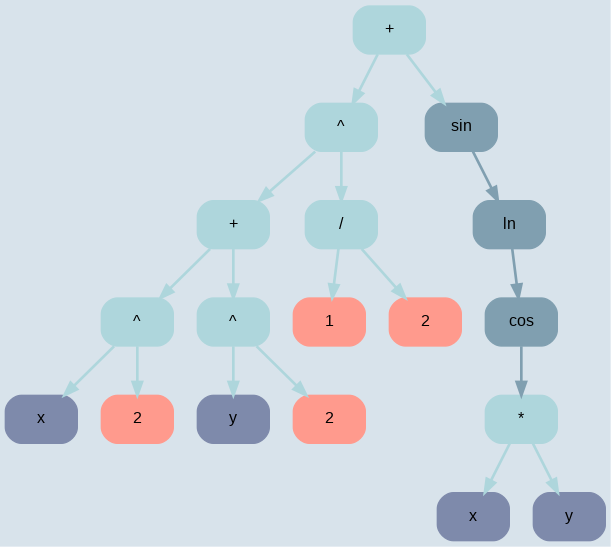
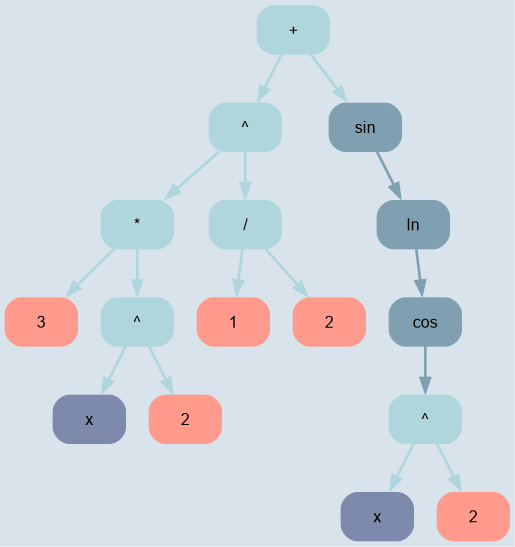
test diff(), don't work correct POW d

diff --git a/src/diff_tree.cpp b/src/diff_tree.cpp
@@ -20,13 +20,14 @@ bool DivOptimisation(Node **node);
 bool PowOptimisation(Node **node);
 bool CompareDoubles(double value1, double value2);
 
-void Optimize(Node **node);
 void ReplaceWithOne(Node **node);
 
 bool IsNum(const Node *node);
 
 const double EPSILON = 1e-10;
 const size_t MAX_VARS = 10;
+
+//#define _LOG(b)    NewNode(FUNC, NodeValue {.func = (LN)}, nullptr, b)
 
 Variable* GetVarsTable() //TODO struct
 {
@@ -68,8 +69,14 @@ size_t AddVartable(Variable *vars_table, const char* name, size_t len_name)
 
 bool CheckVars(Node* node)
 {
-    return node && node->type == VAR;
+    if (!node) return false;
+    if (node->type == VAR) return true;
+    if (node->type == NUM) return false;
+    if (node->type == OP || node->type == FUNC)
+        return CheckVars(node->left) || CheckVars(node->right);
+    return false;
 }
+
 
 bool CompareDoubles(double value1, double value2)
 {
@@ -80,6 +87,7 @@ double Eval(Node *node)
 {
     assert(node);
 
+    LOG(LOGL_DEBUG, "Eval node");
     if (node->type == NUM) return node->value.num;
     if (node->type == VAR) return Global_x;
     if (node->type == OP)
@@ -94,7 +102,12 @@ double Eval(Node *node)
         #define DEF_OPER(oper, eval_rule, ...) case oper: return eval_rule;
         switch (node->value.op)
         {
-            #include "diff_rules_DSL.h"
+            // #include "diff_rules_DSL.h"
+            case ADD: return _ELEFT + _ERIGHT;
+            case SUB: return _ELEFT - _ERIGHT;
+            case MUL: return _ELEFT * _ERIGHT;
+            case DIV: return _ELEFT / _ERIGHT;
+            case POW: return pow(_ELEFT, _ERIGHT);
 
             default:
                 LOG(LOGL_ERROR,"Error: Unknown operation");
@@ -107,7 +120,15 @@ double Eval(Node *node)
         #define DEF_FUNC(func, eval_rule, ...) case func: return eval_rule;
         switch (node->value.func)
         {
-            #include "diff_rules_DSL.h"
+            // #include "diff_rules_DSL.h"
+
+            case SIN:
+                return sin(_ERIGHT);
+            case COS:
+                return cos(_ERIGHT);
+            case LN:
+                return log(_ERIGHT);
+
 
             default:
                 LOG(LOGL_ERROR,"Error: Unknown operation");
@@ -136,17 +157,53 @@ Node* Diff(Node *node)
 {
     assert(node);
 
+    LOG(LOGL_DEBUG, "Diff node");
     if (node->type == NUM) return _NUM(0);
+    LOG(LOGL_ERROR,"NUM: %d", node->value.num);
+
     if (node->type == VAR) return _NUM(1);
+    LOG(LOGL_ERROR,"VAR: %d", node->value.var);
+
     if (node->type == OP)
     {
-        #define DEF_OPER(oper, eval_rule, diff_rule, ...) case oper: diff_rule
+        #define DEF_OPER(oper, eval_rule, diff_rule, ...) case oper: diff_rule;
+
+        LOG(LOGL_ERROR,"OP: %d", node->value.op);
         switch (node->value.op)
         {
-            #include "diff_rules_DSL.h"
+            // #include "diff_rules_DSL.h"
+
+            case ADD:
+                return _ADD(dL, dR);
+            case SUB:
+                return _SUB(dL, dR);
+            case MUL:
+                return _ADD(_MUL(dL, CR), _MUL(CL, dR));
+            case DIV:
+                return _DIV(_SUB(_MUL(dL, CR), _MUL(CL, dR)), _MUL(CR, CR));
+            case POW:
+            {
+                bool var_in_base   = CheckVars(node->left);
+                bool var_in_degree = CheckVars(node->right);
+
+                if (var_in_base && var_in_degree)
+                {
+                    return _MUL(_ADD( _MUL(dR, _LOG(CL)),_DIV(_MUL(dL, CR), CL)), _POW(CL, CR));
+                }
+                if (var_in_base)
+                {
+                    return _MUL(dL,  _MUL(CR, _POW(CL, _SUB(CR, _NUM(1)))));
+                }
+                if (var_in_degree)
+                {
+                    return _MUL( _POW(CL, CR),  _MUL(dR, _LOG(CL)));
+                }
+
+                return nullptr;
+            }
 
             default:
-                LOG(LOGL_ERROR,"Error: Unknown operation");
+                LOG(LOGL_ERROR,"Error: Unknown operation %d", node->value.op);
                 return nullptr;
         }
         #undef DEF_OPER
@@ -154,9 +211,18 @@ Node* Diff(Node *node)
     if (node->type == FUNC)
     {
         #define DEF_FUNC(func, eval_rule, diff_rule, ...) case func: diff_rule
+
+        LOG(LOGL_ERROR,"FUNC: %d", node->value.func);
         switch (node->value.func)
         {
-            #include "diff_rules_DSL.h"
+            // #include "diff_rules_DSL.h"
+
+            case SIN:
+                return _MUL(_COS(CR), dR);
+            case COS:
+                return _MUL(_MUL(_NUM(-1), _SIN(CR)), dR);
+            case LN:
+                return _DIV(dR, CR);
 
             default:
                 LOG(LOGL_ERROR,"Error: Unknown func");

diff --git a/include/diff_rules_DSL.h b/include/diff_rules_DSL.h
@@ -1,7 +1,7 @@
 #ifndef _DIFF_RULES_DCL
 #define _DIFF_RULES_DCL
 
-#ifdef DEF_OPER
+// #ifdef DEF_OPER
 
 DEF_OPER(ADD,
     _ELEFT + _ERIGHT,
@@ -15,7 +15,7 @@ DEF_OPER(SUB,
 
 DEF_OPER(MUL,
     _ELEFT * _ERIGHT,
-    { return _ADD (_MUL (dL, CR), _MUL (CL, dR)); },
+    return _ADD (_MUL (dL, CR), _MUL (CL, dR));,
     '*')
 
 DEF_OPER(DIV,
@@ -31,41 +31,41 @@ DEF_OPER(POW,
 
         if (var_in_base && var_in_degree)
         {
-            return _MUL ( _ADD ( _MUL ( dR, _LOG(CL) ), _DIV ( _MUL (dL, CR), CL ) ), _POW (CL, CR) );
+            return _MUL ( _ADD ( _MUL ( dR, _LOG(CL) ), _DIV ( _MUL (dL, CR), CL ) ), _POW (CL, CR) )
         }
 
         if (var_in_base)
         {
-            return _MUL(dL, _MUL(CR, _POW(CL, _SUB(CR, _NUM(1)))));
-        }
+            return _MUL(dL, _MUL(CR, _POW(CL, _SUB(CR, _NUM(1)))))
+        }#ifdef DEF_OPER
 
         if (var_in_degree)
         {
-            return _MUL(_POW(CL, CR), _MUL(dR, _LOG(CL)));
+            return _MUL(_POW(CL, CR), _MUL(dR, _LOG(CL)))
         }
 
         return nullptr;
     },
 
     '^')
-#endif //DEF_OPER
-
-#ifdef DEF_FUNC
-DEF_FUNC(SIN,
-    sin(_ERIGHT),
-    { return _MUL (_COS(CR), dR); },
-    "sin")
-
-DEF_FUNC(COS,
-    cos(_ERIGHT),
-    { return _MUL (_SIN (_MUL ( _NUM(-1), CR)), dR); },
-    "cos")
-
-DEF_FUNC(LOG,
-    log(_ERIGHT),
-    { return _DIV (dR, CR); },
-    "ln")
-
-#endif //DEF_FUNC
+// #endif //DEF_OPER
+//
+// #ifdef DEF_FUNC
+// DEF_FUNC(SIN,
+//     sin(_ERIGHT),
+//     { return _MUL (_COS(CR), dR); },
+//     "sin")
+//
+// DEF_FUNC(COS,
+//     cos(_ERIGHT),
+//     { return _MUL (_SIN (_MUL ( _NUM(-1), CR)), dR); },
+//     "cos")
+//
+// DEF_FUNC(LOG,
+//     log(_ERIGHT),
+//     { return _DIV (dR, CR); },
+//     "ln")
+//
+// #endif //DEF_FUNC
 
 #endif ///DIFF_RULES_FUNC

diff --git a/include/diff_DSL.h b/include/diff_DSL.h
@@ -11,6 +11,7 @@
 #define _VAR(x) NewNode(VAR, (NodeValue){.var = (x)}, nullptr, nullptr)
 
 #define OP_VALUE(oper)   NodeValue {.op   = (oper)}
+// #define FUNC_VALUE(func) NodeValue {.func = (func)}
 
 #define _FUNC(func_type, arg) NewNode(FUNC,  (NodeValue){.func = (func_type)}, nullptr, arg)
 #define _OP(op, a, b) NewNode(OP, (NodeValue){.op = (op)}, a, b)
@@ -20,9 +21,12 @@
 #define _MUL(a, b) NewNode(OP, OP_VALUE(MUL), a, b)
 #define _DIV(a, b) NewNode(OP, OP_VALUE(DIV), a, b)
 #define _POW(a, b) NewNode(OP, OP_VALUE(POW), a, b)
-#define _COS(b)    NewNode(FUNC, FUNC_VALUE(COS), nullptr, b)
-#define _SIN(b)    NewNode(FUNC, FUNC_VALUE(SIN), nullptr, b)
-#define _LOG(b)    NewNode(FUNC, FUNC_VALUE(LOG), nullptr, b)
+// #define _COS(b)    NewNode(FUNC, FUNC_VALUE(COS), nullptr, b)
+// #define _SIN(b)    NewNode(FUNC, FUNC_VALUE(SIN), nullptr, b)
+// #define _LOG(b)    NewNode(FUNC, FUNC_VALUE( LN), nullptr, b)
+#define _COS(b)    NewNode(FUNC, NodeValue {.func = (COS)}, nullptr, b)
+#define _SIN(b)    NewNode(FUNC, NodeValue {.func = (SIN)}, nullptr, b)
+#define _LOG(b)    NewNode(FUNC, NodeValue {.func = ( LN)}, nullptr, b)
 
 #define dL  Diff(node->left)
 #define dR  Diff(node->right)

diff --git a/src/main.cpp b/src/main.cpp
@@ -44,9 +44,25 @@ int main(int argc, const char* argv[]) //TODO not const
         fprintf(stderr, "ERROR! check log file\n");
     }
     TreeDumpDot2(node_G);
-    //printf("%lg\n", Eval(node_G));
-    FreeTree(&node_G);
 
+    Node *diff_node = CopyTree(node_G);
+    Node *diff_result = Diff(diff_node);
+    if (diff_result == nullptr)
+    {
+        fprintf(stderr, "Diff() return nullptr node\n");
+        FreeTree(&diff_node);
+        FreeTree(&diff_result);
+        FreeTree(&node_G);
+        return -1;
+    }
+    TreeDumpDot2(diff_result);
+    
+    FreeTree(&diff_node);
+    FreeTree(&diff_result);
+
+    printf("%lg\n", Eval(node_G));
+
+    FreeTree(&node_G);
     FreeVarsTable();
 
     LoggerDeinit();

diff --git a/include/diff_tree.h b/include/diff_tree.h
@@ -33,7 +33,7 @@ enum Op
 
 enum Func
 {
-    SIN, COS, LOG,
+    SIN, COS, LN,
 };
 
 /*************************NODE******************************************************************************/
@@ -92,7 +92,7 @@ static const Function func[] =
 {
     {SIN, "sin"},
     {COS, "cos"},
-    {LOG,  "ln"}
+    { LN,  "ln"}
 };
 
 const size_t size_of_func = sizeof(func) / sizeof(func[0]);
@@ -106,5 +106,6 @@ bool CheckVars(Node* node);
 Variable* GetVarsTable();
 size_t LookupVar(Variable *vars_table, const char* name, size_t len_name);
 size_t AddVartable(Variable *vars_table, const char* name, size_t len_name);
+void Optimize(Node **node);
 
 #endif //_DIFF_TREE

diff --git a/src/lexical_analysis.cpp b/src/lexical_analysis.cpp
@@ -16,6 +16,8 @@ static bool IsNum(const char *cur);
 static bool IsFunc(const char *name);
 static Func GetFuncType(const char* func_name);
 
+Lexeme* StringToLexemes(const char *str, size_t *lexeme_count);
+
 void SkipSpaces(const char **buffer)
 {
     while (isspace(**buffer)) (*buffer)++;
@@ -184,7 +186,7 @@ void PrintLexemes(const Lexeme *lexeme_array, size_t lexeme_count)
 
     printf(BLUB " //***********************Lexemes***********************// " RESET "\n\n");
 
-    for (size_t i = 0; i < lexeme_count; i++) 
+    for (size_t i = 0; i < lexeme_count; i++)
     {
         const Lexeme *lex = &lexeme_array[i];
 

diff --git a/include/lexical_analysis.h b/include/lexical_analysis.h
@@ -2,7 +2,7 @@
 #define _LEXICAL_ANALYSIS
 
 #include "diff_tree.h"
-#include "diff_rules_DSL.h"
+// #include "diff_rules_DSL.h"
 
 typedef enum LexemeType
 {
